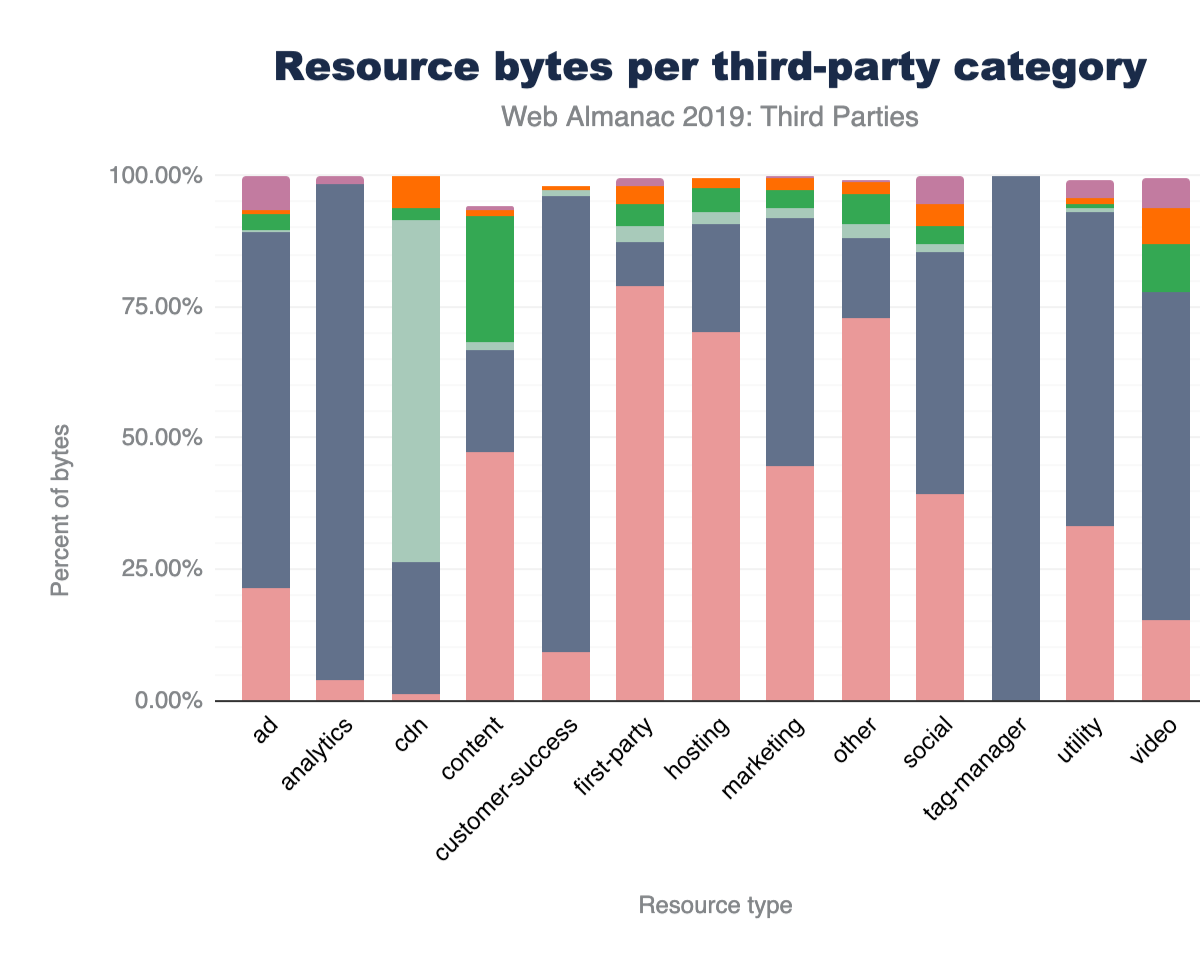
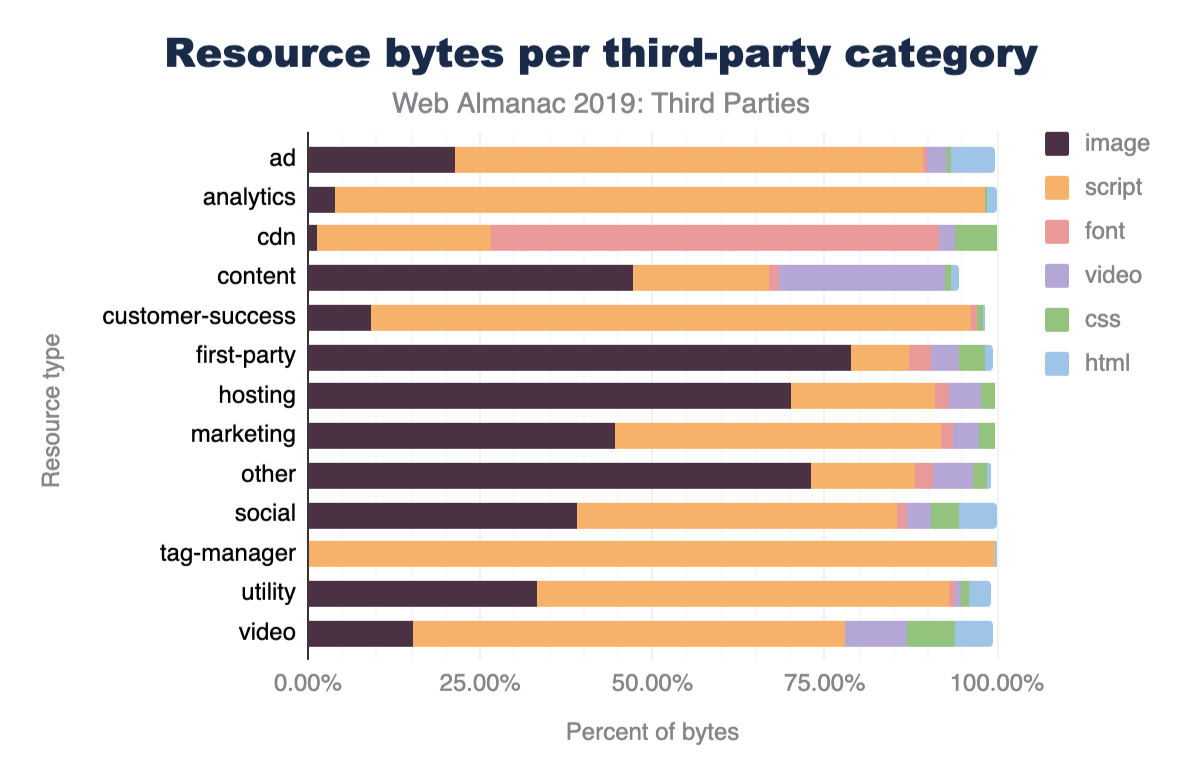
Fix 3P fig7 (#499)
* fix 3p fig7

* Optimised images with calibre/image-actions

diff --git a/src/templates/en/2019/chapters/third-parties.html b/src/templates/en/2019/chapters/third-parties.html
@@ -411,7 +411,7 @@
       <p>While 49% of requests are third-party, their share of the web in terms of bytes is quite a bit lower at only 28%. The same goes for the breakdown by multiple resource types. Third-party fonts make up 72% of all fonts, but they're only 53% of font bytes; 74% of HTML requests, but only 39% of HTML bytes; 68% of video requests, but only 31% of video bytes. All this seems to suggest third-party providers are responsible stewards who keep their response sizes low, and, for the most part, that is in fact the case until you look at scripts.</p>
       <p>Despite serving 57% of scripts, third parties comprise 64% of script bytes. meaning their scripts are larger on average than first-party scripts. This is an early warning sign for their performance impact to come in the next few sections.</p>
       <figure id="fig-6">
-        <iframe aria-labelledby="fig7-caption" width="600" height="483.5" seamless="" frameborder="0" scrolling="no" src="https://docs.google.com/spreadsheets/d/e/2PACX-1vRO5jS8JpjYdTr9poYmpyw-BL1LPQtfzHx_1hLRk9lgwkHQERuyELgF_rQ-4CpTbdbAyI9u1ggtPlLQ/pubchart?oid=1167032693&amp;format=interactive" loading="lazy"></iframe>
+        <iframe aria-labelledby="fig7-caption" width="600" height="387" seamless="" frameborder="0" scrolling="no" src="https://docs.google.com/spreadsheets/d/e/2PACX-1vRO5jS8JpjYdTr9poYmpyw-BL1LPQtfzHx_1hLRk9lgwkHQERuyELgF_rQ-4CpTbdbAyI9u1ggtPlLQ/pubchart?oid=1167032693&amp;format=interactive" loading="lazy"></iframe>
         <a href="/static/images/2019/05_Third_Parties/fig7.png" class="fig-mobile">
           <img src="/static/images/2019/05_Third_Parties/fig7.png" aria-labelledby="fig7-caption" width="600" loading="lazy" />
         </a>
